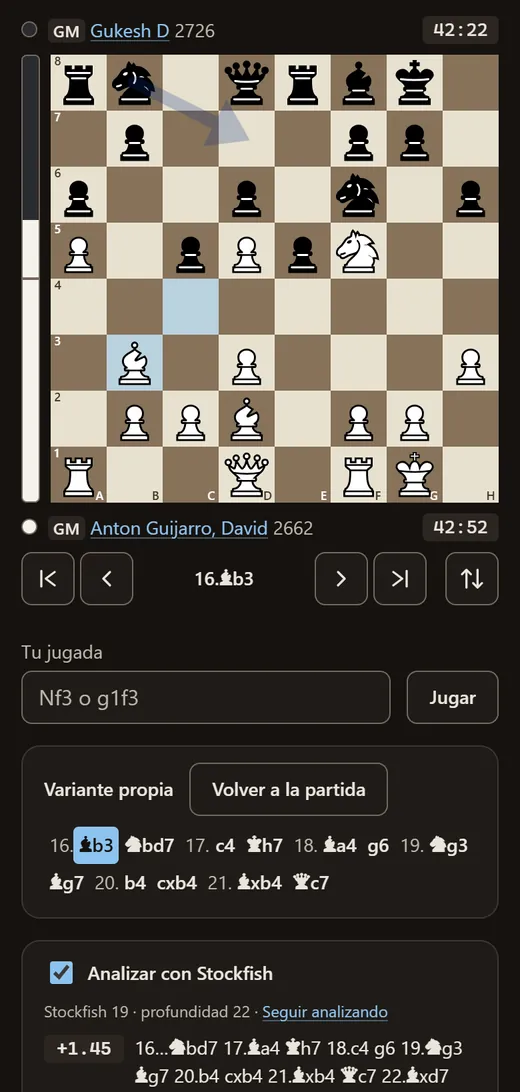
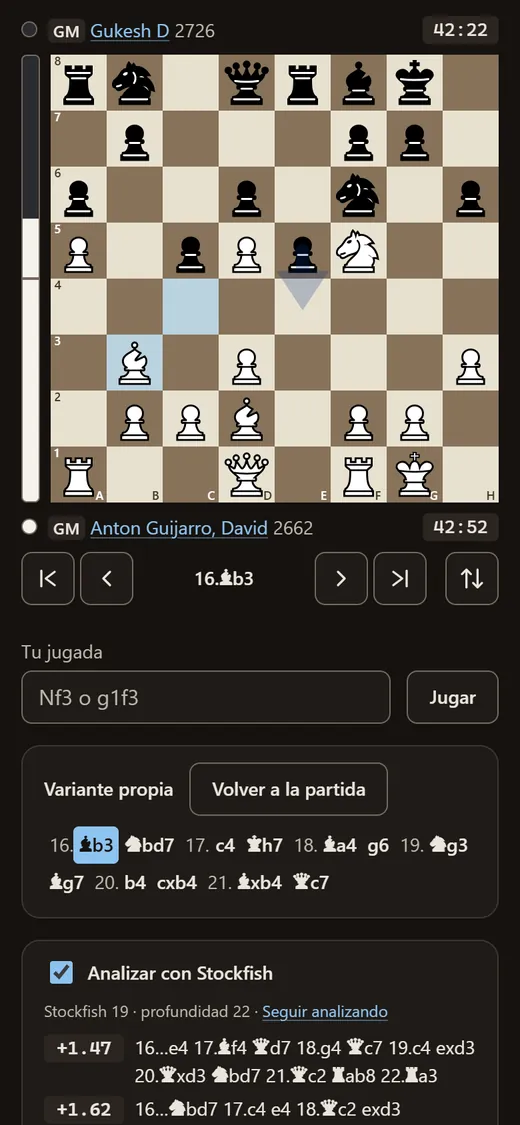
README: el dossier con negras y las tres del móvil a 844 px
Con el ejemplo de la portada, la captura del dossier repetía su tabla: la
primera jugada con blancas del mismo GM. Ahora enseña la de negras, con lo
que responde a cada primera jugada de las blancas, y su texto alternativo
lo dice.

Las tres del móvil van al mismo alto para salir alineadas. A 819 px, la
tabla del dossier con negras quedaba cortada justo bajo «Otras», y a 843,
su tarjeta sin la raya de abajo: las tres pasan a 844, la ventana entera
(520×1125), donde ninguna parte nada visible, y el commit anterior queda
superado en eso. El visor se rehízo con su receta, y como sus líneas del
motor cambian de una toma a otra tras pulsar, se eligió una toma en claro
y otra en oscuro con las mismas líneas a la vista. La nota de
docs/decisiones.md lo cuenta, con la receta (densidad 2 y WebP) y el peso
de las ocho, 440 KB.

diff --git a/docs/decisiones.md b/docs/decisiones.md
@@ -804,7 +804,11 @@ La historia, las medidas, los casos concretos y el detalle de cada página que s
 
 #### Capturas del README
 
-- **Capturas del README** (`docs/capturas/`, 25-oct-2026; rehechas el 7-nov-2026, con las piezas nuevas, y la de la portada el 11-nov-2026, con el ejemplo del dossier): de producción, en WebP, en claro y en oscuro, que el README elige con `<picture>` y `prefers-color-scheme`. Sólo enseñan GM de élite (la partida 53051, Anton Guijarro contra Gukesh, y el dossier de Anton, 2285525, que el 11-nov era también el ejemplo de la portada, sin su nombre: se recalcula cada noche y puede ser otro de los diez primeros) y nombres de torneos: nunca a otros jugadores ni a posibles menores. El visor, a 1280×800 con el motor encendido; las del móvil, a 390×844, recortadas a 819 px de alto y guardadas a 520 px de ancho; en la de la portada, el corte cae en una franja sin texto (de 816 a 863 px). Las ocho pesan 436 KB.
+- **Capturas del README** (`docs/capturas/`, 25-oct-2026; rehechas el 7-nov-2026, con las piezas nuevas, y las del móvil el 11-nov-2026, con el ejemplo de la portada y el dossier con negras): de producción, a densidad 2, en WebP (`quality` 80, `method` 6), en claro y en oscuro, que el README elige con `<picture>` y `prefers-color-scheme`. Sólo enseñan GM de élite y nombres de torneos: nunca a otros jugadores ni a posibles menores. El visor, a 1280×800 con el motor encendido. Las ocho pesan 440 KB.
+  - **Quién sale:** la partida 53051, Anton Guijarro contra Gukesh, y el dossier de Anton (2285525). El 11-nov-2026 era también el ejemplo de la portada, sin su nombre; se recalcula cada noche y puede ser otro de los diez primeros.
+  - **Las del móvil,** a 390×844, guardadas a 520 px de ancho y recortadas al mismo alto para que salgan alineadas. El corte va donde no parte nada visible en ninguna de las tres, y se vuelve a buscar si cambia lo que enseñan: el 11-nov-2026, 844 px CSS, la ventana entera (520×1125). A 819, la tabla del dossier con negras quedaba cortada justo bajo «Otras», y a 843, su tarjeta se quedaba sin la raya de abajo y la pastilla de la segunda línea del motor del visor, pegada al borde.
+  - **El dossier va con negras** desde el 11-nov-2026: con blancas repetía la tabla del ejemplo de la portada.
+  - **En el visor del móvil,** las líneas del motor cambian de una toma a otra tras pulsar la primera línea (por lo que queda en la caché de la búsqueda anterior), aunque las dos tomas lleguen a la profundidad 22: se repite hasta tener una toma en claro y otra en oscuro con las mismas líneas a la vista (el 11-nov-2026, de diez tomas, cinco por tema, sólo coincidió una pareja).
 
 ### `main` es lo desplegado y está protegido
 

diff --git a/README.md b/README.md
@@ -50,7 +50,7 @@ Saber contra quién te toca en la próxima ronda, ver qué aperturas juega y dó
   </picture>
   <picture>
     <source media="(prefers-color-scheme: dark)" srcset="docs/capturas/dossier-oscuro.webp">
-    <img src="docs/capturas/dossier-claro.webp" width="260" alt="El dossier en el móvil: su primera jugada con blancas, con el porcentaje y la puntuación de cada una, y sus líneas principales">
+    <img src="docs/capturas/dossier-claro.webp" width="260" alt="El dossier en el móvil: su primera jugada con negras, con el porcentaje y la puntuación contra cada primera jugada de las blancas y lo que responde a cada una">
   </picture>
   <picture>
     <source media="(prefers-color-scheme: dark)" srcset="docs/capturas/visor-movil-oscuro.webp">
